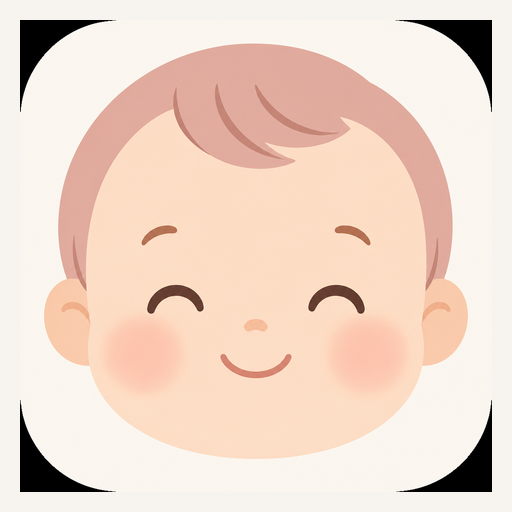
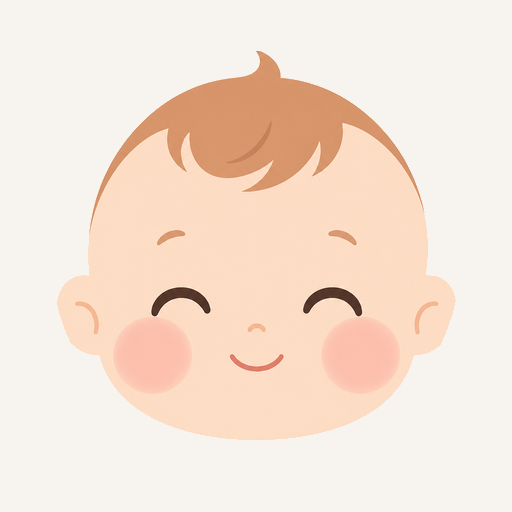
fix: ホーム画面アイコンの黒い四隅を除去 (#13)
角丸フレームの黒縁を消し、背景色 #F7F3EE で
四隅まで塗りつぶしたアイコンに差し替える。
iOS キャッシュ回避のため version query も更新。

diff --git a/app/layout.tsx b/app/layout.tsx
@@ -36,19 +36,19 @@ export const metadata: Metadata = {
   icons: {
     icon: [
       {
-        url: `${basePath}/icon-192.png?v=20260802`,
+        url: `${basePath}/icon-192.png?v=20260802b`,
         sizes: "192x192",
         type: "image/png",
       },
       {
-        url: `${basePath}/icon-512.png?v=20260802`,
+        url: `${basePath}/icon-512.png?v=20260802b`,
         sizes: "512x512",
         type: "image/png",
       },
     ],
     apple: [
       {
-        url: `${basePath}/apple-touch-icon.png?v=20260802`,
+        url: `${basePath}/apple-touch-icon.png?v=20260802b`,
         sizes: "180x180",
         type: "image/png",
       },
@@ -85,11 +85,11 @@ export default function RootLayout({
         <meta name="apple-mobile-web-app-title" content={APP_NAME} />
         <link
           rel="apple-touch-icon"
-          href={`${basePath}/apple-touch-icon.png?v=20260802`}
+          href={`${basePath}/apple-touch-icon.png?v=20260802b`}
         />
         <link
           rel="manifest"
-          href={`${basePath}/manifest.webmanifest?v=20260802`}
+          href={`${basePath}/manifest.webmanifest?v=20260802b`}
         />
       </head>
       <body className="min-h-full flex flex-col overflow-x-hidden overscroll-none">

diff --git a/lib/notifications.ts b/lib/notifications.ts
@@ -110,7 +110,7 @@ export async function ensureServiceWorker(): Promise<ServiceWorkerRegistration |
       try {
         const base = getAppBasePath();
         const reg = await navigator.serviceWorker.register(
-          `${base}/sw.js?v=20260802-baby-icon`,
+          `${base}/sw.js?v=20260802b-baby-icon`,
           {
             scope: `${base}/`,
             updateViaCache: "none",

diff --git a/public/sw.js b/public/sw.js
@@ -1,5 +1,5 @@
 /* すくすくログ Service Worker — iOS PWA 通知 + キャッシュ更新 */
-const SW_VERSION = "2026-08-02-baby-icon";
+const SW_VERSION = "2026-08-02b-icon-corners";
 
 self.addEventListener("install", (event) => {
   self.skipWaiting();
